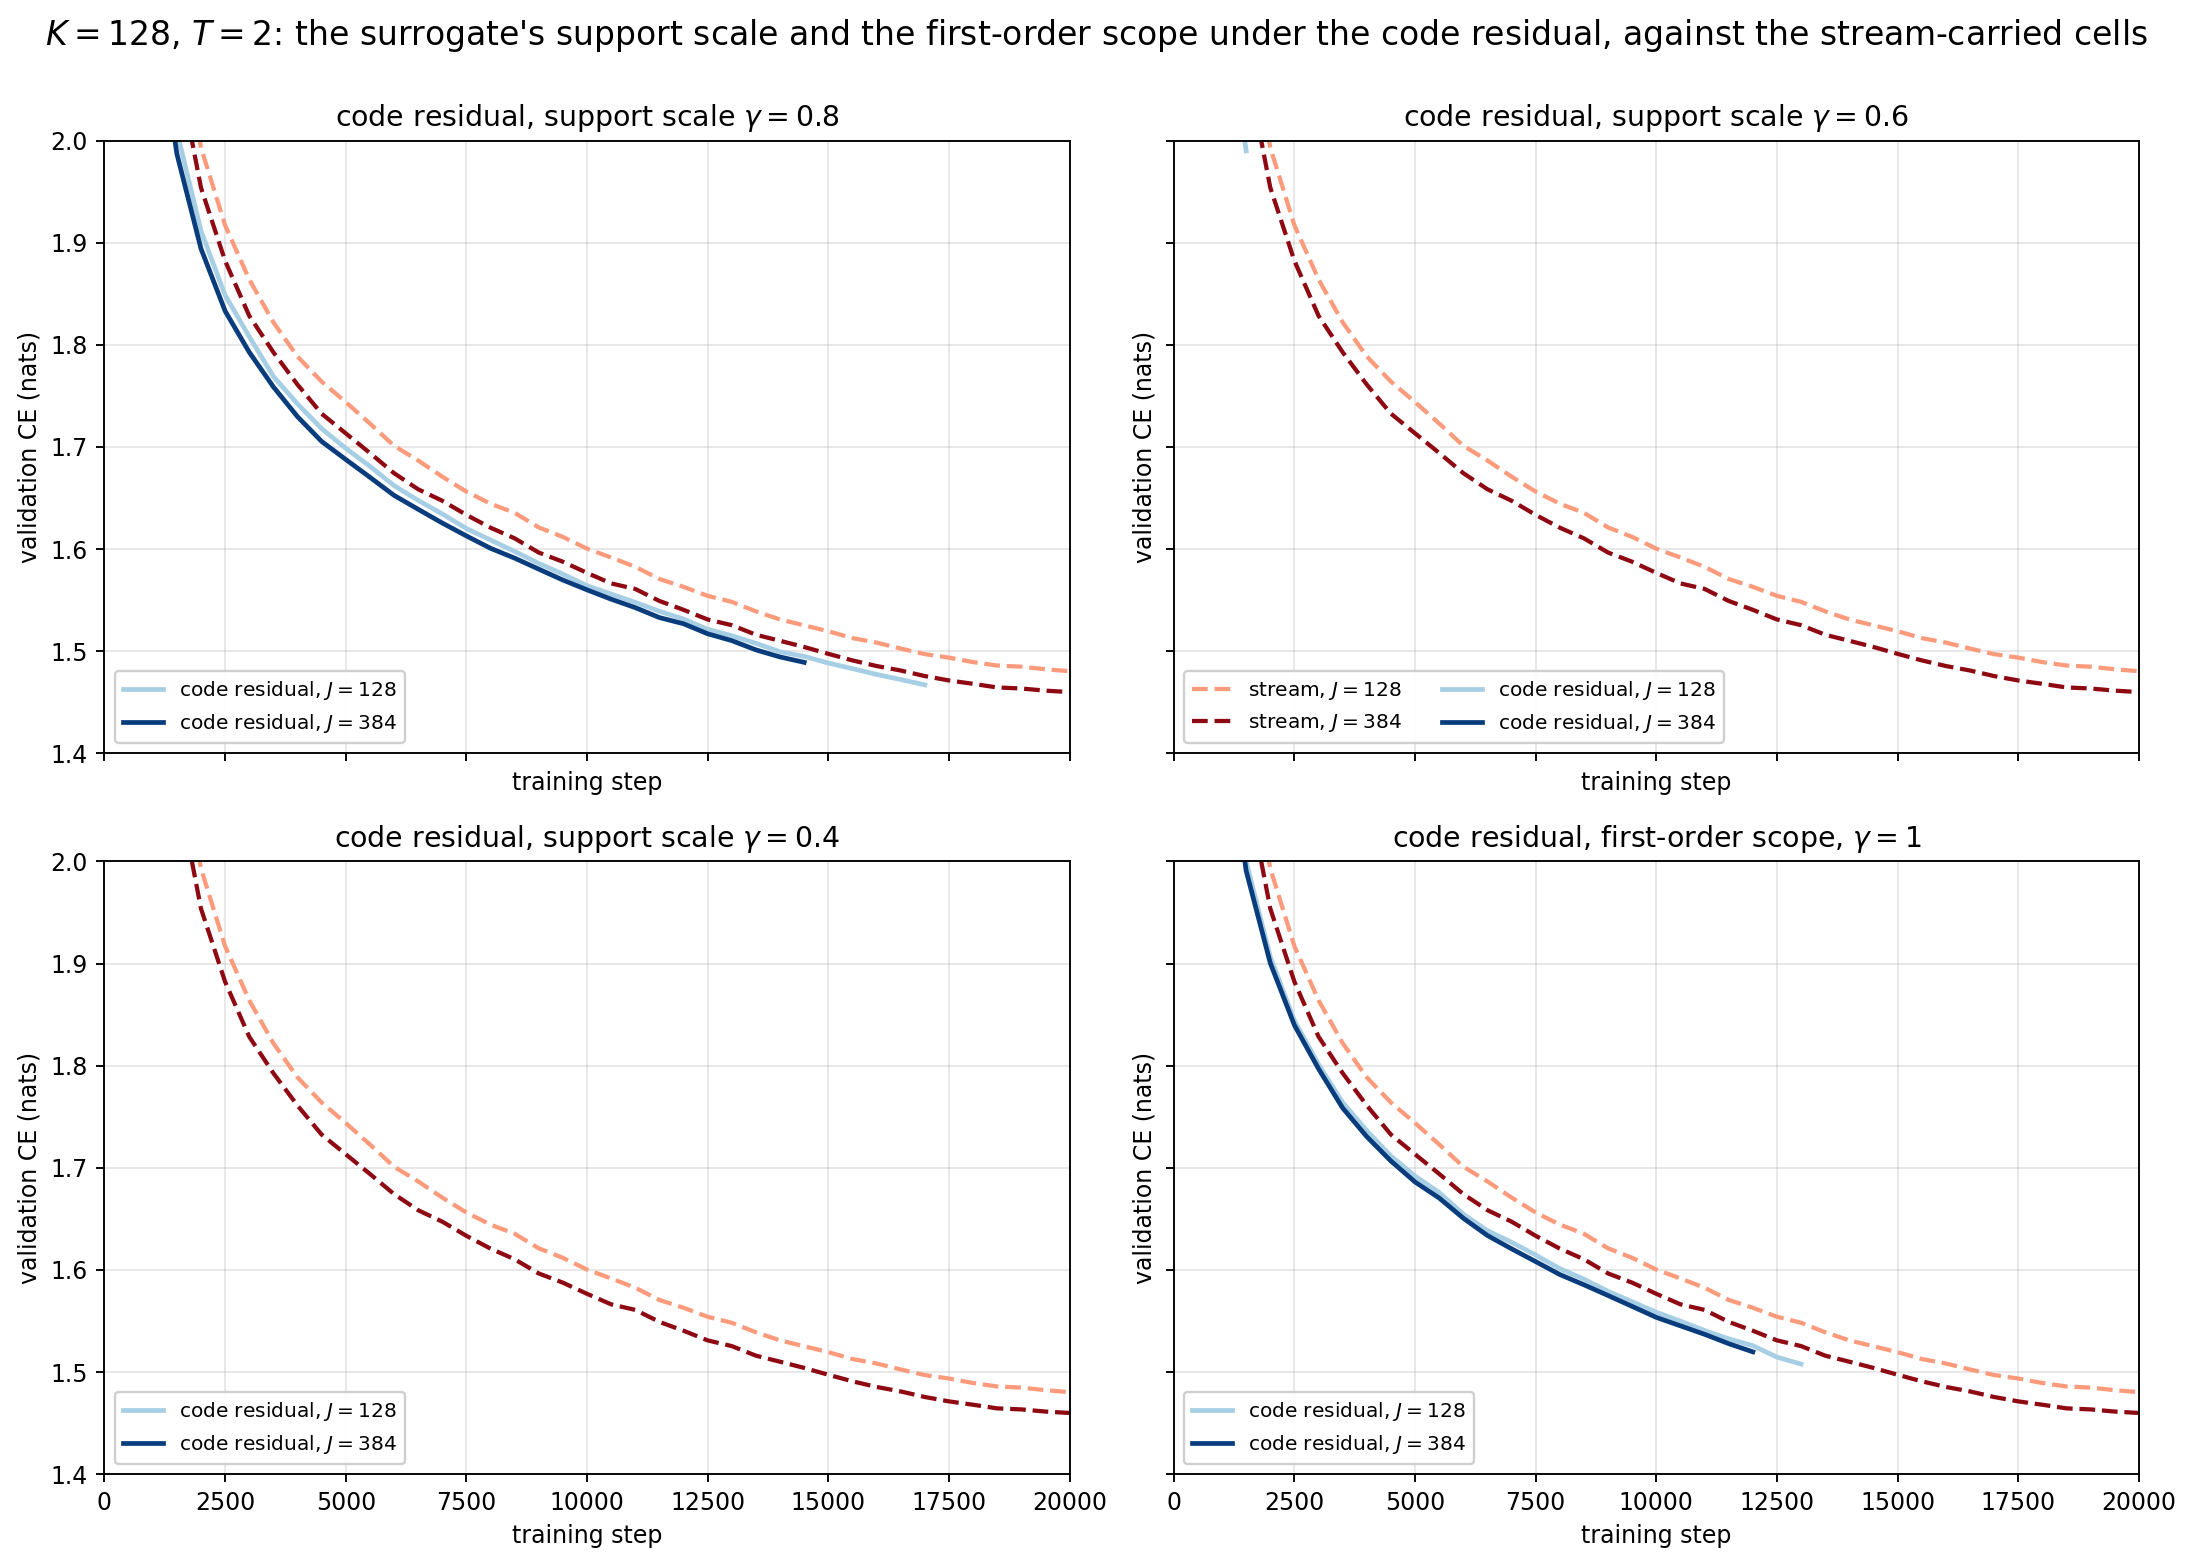
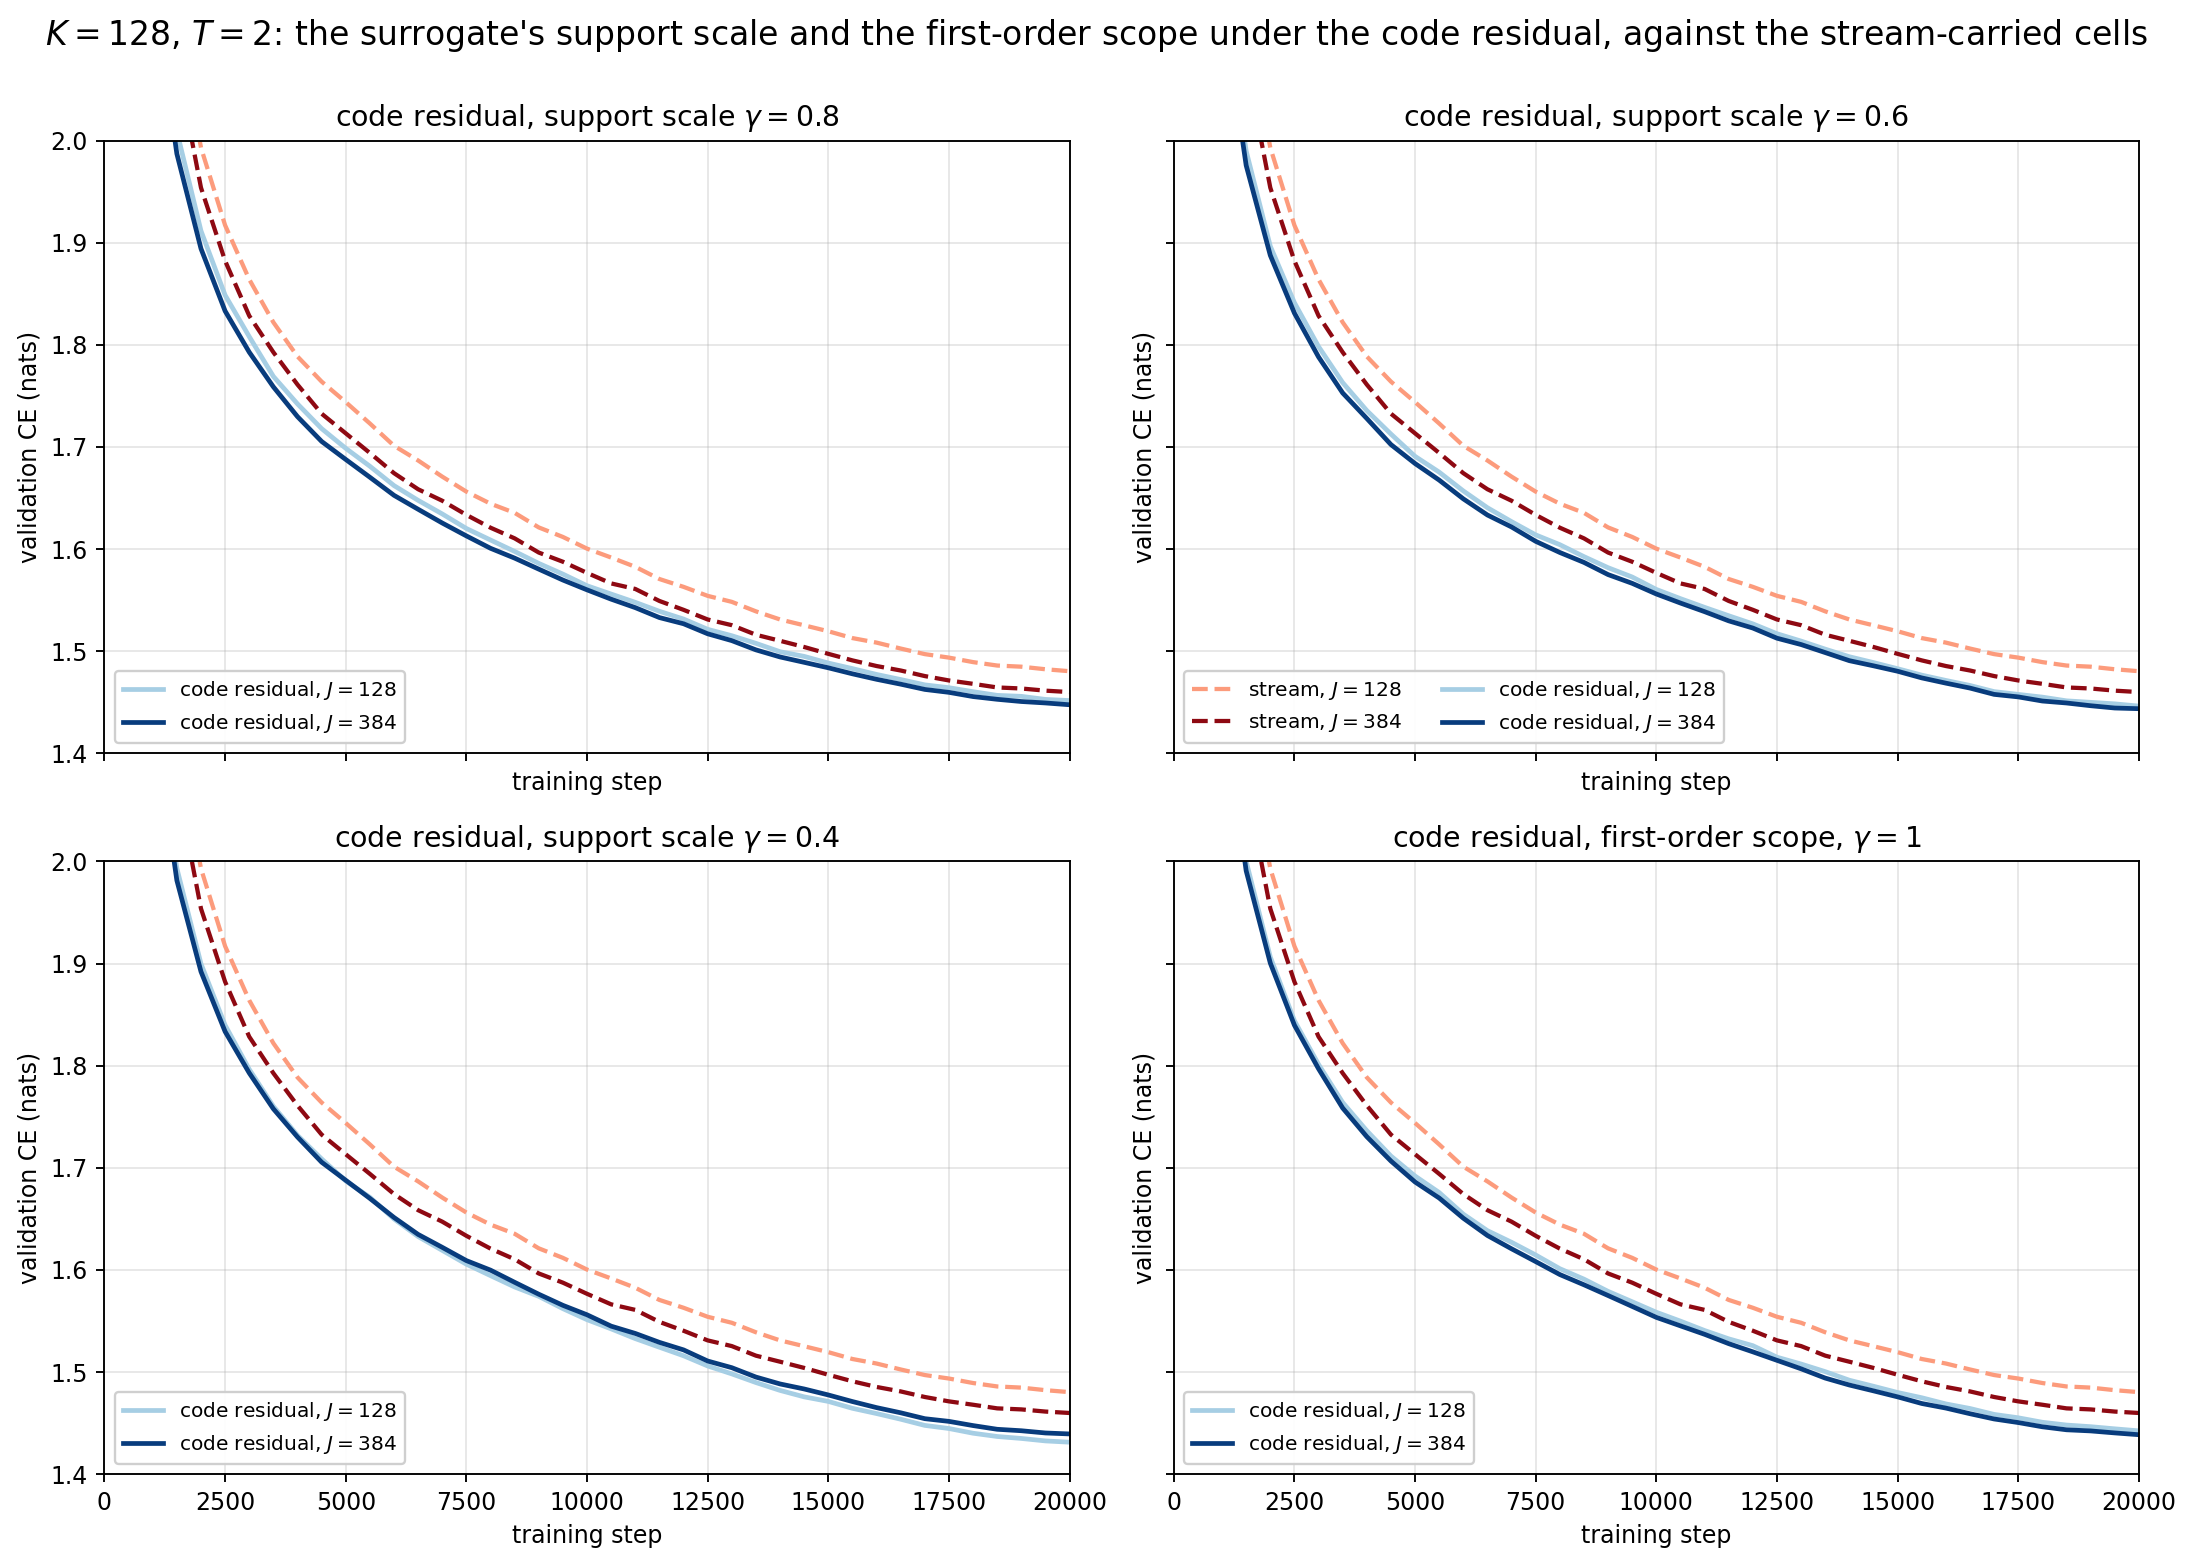
docs: code-residual K+J note -- K=128 sweep block (support scale, first-order)

diff --git a/docs/kj-vs-hard-topk-code-residual.tex b/docs/kj-vs-hard-topk-code-residual.tex
@@ -87,8 +87,10 @@ The compounding of support terms along the carry is therefore not what
 limits the code-carried surrogate at $T=2$: the full term with the plain
 backward is its best variant at every $J$. At $K = 64$ the same ordering
 holds with penalties two to five times smaller ($0.001$--$0.019$), and the
-first-order scope is within $0.005$ of the full term. \PH{K=128, 256 to
-follow}
+first-order scope is within $0.005$ of the full term. At $K = 128$ the
+ordering reverses: $\gamma = 0.4$ gains $0.020$ at $J = 128$ and the
+first-order scope $0.005$--$0.008$, so the strength of the support term
+that the carry can use decreases with $K$. \PH{K=256 to follow}
 \end{itemize}
 
 % ============================================================
@@ -645,7 +647,41 @@ $\gamma = 0.6$ and $\gamma = 0.4$ panels the $J = 448$ curves cross late in
 training and the stream-carried cell ends below.}
 \end{figure}
 
-%%SWEEP-K128%%
+\subsection*{$K = 128$}
+
+\begin{center}\small
+\begin{tabular}{lcccccc}
+\toprule
+$J$ & stream & code, $\gamma{=}1$ & $\gamma{=}0.8$ & $\gamma{=}0.6$ & $\gamma{=}0.4$ & first-order \\
+\midrule
+$128$ & 1.4802 & 1.4507 & 1.4515 & 1.4461 & 1.4312 & 1.4423 \\
+$384$ & 1.4598 & 1.4436 & 1.4474 & 1.4435 & 1.4393 & 1.4385 \\
+\bottomrule
+\end{tabular}
+\end{center}
+
+The ordering reverses. Relative to the full code-carried surrogate,
+$\gamma = 0.8$ is within $0.004$, $\gamma = 0.6$ gains $0.005$ at $J = 128$
+and nothing at $J = 384$, $\gamma = 0.4$ gains $0.020$ and $0.004$, and the
+first-order scope gains $0.008$ and $0.005$. The best variant is
+$\gamma = 0.4$ at $J = 128$ ($1.4312$) and the first-order scope at
+$J = 384$ ($1.4385$), and under $\gamma = 0.4$ the wider window is the worse
+one ($1.4393$ against $1.4312$), the only reversal in $J$ of the sweep.
+Every code-carried variant lies below the stream-carried cell of its $J$,
+by $0.013$--$0.049$. Across $K$ the penalty for weakening the term thus goes
+from $0.007$--$0.034$ at $K = 32$ through $0.001$--$0.019$ at $K = 64$ to a
+gain of up to $0.020$ at $K = 128$. The best $K = 128$ cell still lies
+$0.013$ above code-carried hard Top-128 ($1.4187$) and $0.041$ above hard
+Top-256.
+
+\begin{figure}[htb]\centering
+\includegraphics[width=\textwidth]{figures/kj-cr/cr_k128_sweep.png}
+\caption{$K = 128$, $T = 2$, no output norm; panels and colours as in the
+$K = 32$ figure, $J = 128, 384$. Every solid curve lies below the dashed
+curve of its $J$ in all four panels, with the widest gaps in the
+$\gamma = 0.4$ and first-order panels; in the $\gamma = 0.4$ panel the
+$J = 128$ curve ends below the $J = 384$ one.}
+\end{figure}
 
 %%SWEEP-K256%%
 
@@ -709,7 +745,14 @@ on opposite sides of its threshold at this depth. At $K = 64$ the
 penalties for weakening the term shrink to $0.001$--$0.019$ and the
 first-order scope becomes nearly equivalent to the full backward, so the
 part of the surrogate's gradient that the carry compounds is itself small
-once the window holds 64 active features. \PH{sweep at K=128, 256}
+once the window holds 64 active features. At $K = 128$ the sign flips:
+damping the term to $\gamma = 0.4$ or removing its products gains up to
+$0.020$, which is the 24-layer study's finding at $K = 256$ -- the term on
+the active members crowds the rank boundary once many features are active
+-- now visible at eight blocks. Under the carry the best support scale
+therefore falls with $K$, from the full term at $K = 32$ to about $0.4$ at
+$K = 128$, and none of the variants closes the gap to the code-carried hard
+model at the same active count. \PH{sweep at K=256}
 
 % ============================================================
 \section{Scope}
